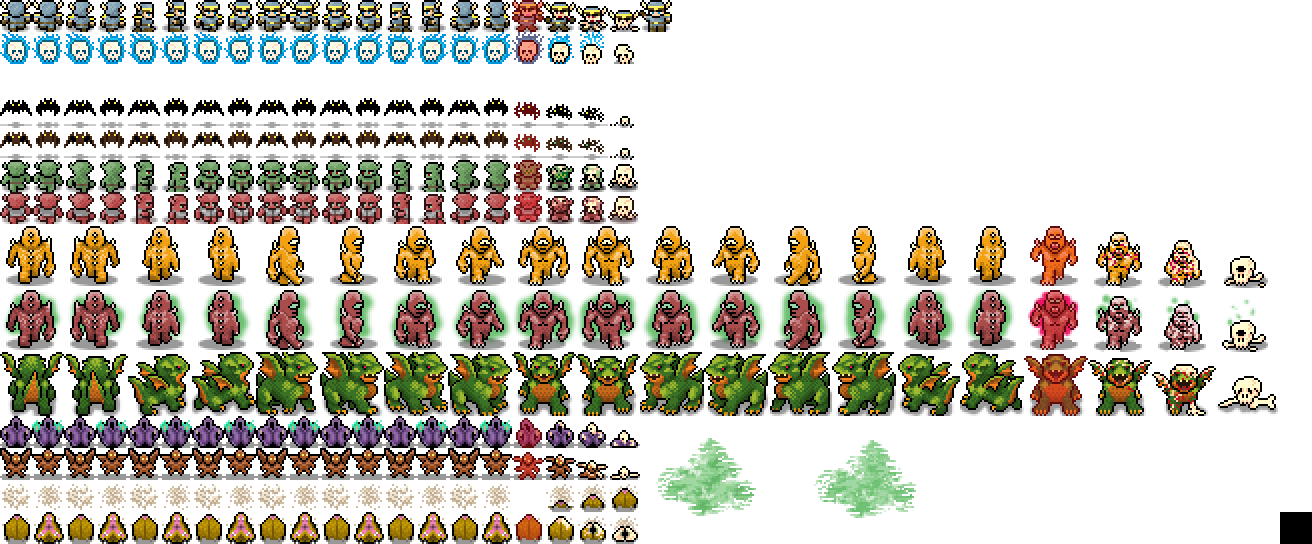
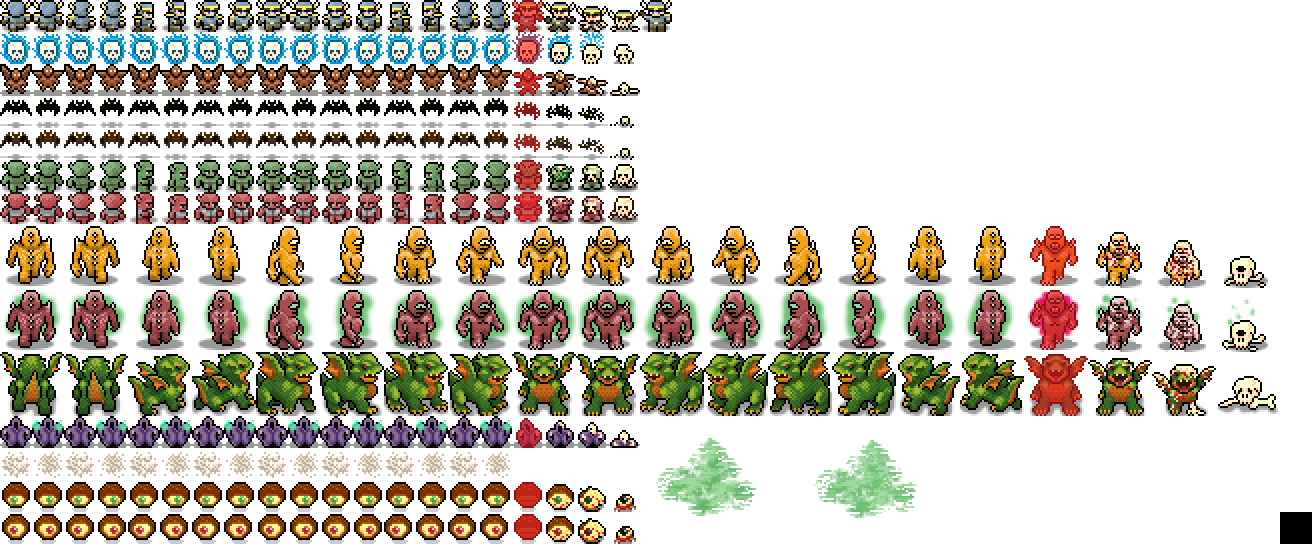
moved imps to make room for two beholder adds for #71

diff --git a/htdocs/js/object_types.js b/htdocs/js/object_types.js
@@ -528,7 +528,7 @@ o.imp = {
 	worth: 50,
 
 	spriteSheet: "characters",
-	spriteY: 448,
+	spriteY: 64,
 	animated: true,
 
 	gibletSize: "medium",
